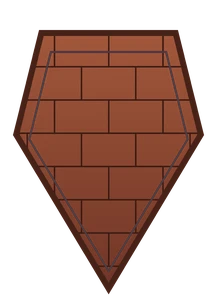
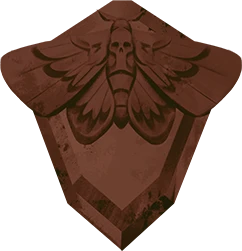
Obscurus badge for unranked players; real Initiate and Acolyte badges from the game files

diff --git a/src/pages/PlayerPage.tsx b/src/pages/PlayerPage.tsx
@@ -83,9 +83,9 @@ function ProfileHead({ core, matches, onRefresh }: { core: PlayerCore; matches: 
               </a>
             )}
           </div>
-          <div className="ph-rank" aria-label={r ? `Rank: ${r.label}` : 'Unranked'}>
-            {r ? <RankBadge rank={r.name} sub={r.sub} size="lg" /> : <span className="pl-unranked" aria-hidden="true">?</span>}
-            <b>{r ? r.label : 'Unranked'}</b>
+          <div className="ph-rank" aria-label={r ? `Rank: ${r.label}` : 'Unranked (Obscurus)'}>
+            {r ? <RankBadge rank={r.name} sub={r.sub} size="lg" /> : <RankBadge rank="Obscurus" size="lg" />}
+            <b>{r ? r.label : 'Obscurus'}</b>
           </div>
         </div>
       </div>
@@ -105,8 +105,8 @@ function RankCard({ core, matches }: { core: PlayerCore; matches: PlayerMatchLin
     <div className="panel pad pc-card ph-rankcard" style={r ? { ['--rc' as string]: RANK_COLOR[r.name as keyof typeof RANK_COLOR] } as React.CSSProperties : undefined}>
       <div className="pc-card-h"><h3>Rank</h3><h3>Record</h3></div>
       <div className="ph-rc">
-        {r ? <RankBadge rank={r.name} sub={r.sub} size="md" /> : <span className="pl-unranked" aria-hidden="true">?</span>}
-        <span className="ph-rc-n"><b>{r ? r.label : 'Unranked'}</b><small>{r?.fromHistory ? `Going into their last ranked game, ${timeAgo(r.fromHistory)}` : r?.streak && r.streak >= 3 ? `${r.streak} ranked wins in a row` : r ? 'Current rank' : 'No ranked rating yet'}</small></span>
+        {r ? <RankBadge rank={r.name} sub={r.sub} size="md" /> : <RankBadge rank="Obscurus" size="md" />}
+        <span className="ph-rc-n"><b>{r ? r.label : 'Obscurus'}</b><small>{r?.fromHistory ? `Going into their last ranked game, ${timeAgo(r.fromHistory)}` : r?.streak && r.streak >= 3 ? `${r.streak} ranked wins in a row` : r ? 'Current rank' : 'No ranked rating yet'}</small></span>
         {t && <span className="ph-rc-wl"><b><span className="w">{n0(t.wins)}</span>{' / '}<span className="l">{n0(t.matches - t.wins)}</span></b>{wr !== null && <small className={wr >= 50 ? 'good' : 'bad'}>{wr.toFixed(1)}%</small>}</span>}
       </div>
     </div>

diff --git a/src/data/ranks.ts b/src/data/ranks.ts
@@ -13,13 +13,12 @@ export const ROMAN = ['', 'I', 'II', 'III', 'IV', 'V', 'VI'] as const;
 
 /**
  * Badge art for a rank (the animal plaque from the Deadlock Wiki's Ranked Mode page).
- * Initiate, Acolyte and Obscurus are drawn stand-ins until the real files are added: see PLACEHOLDER_TIERS.
+ * Obscurus (unranked), Initiate and Acolyte come from the game's own files (ranked/badges/rankNN_lg).
  */
 export function rankBadge(rank: string): string | undefined {
   const t = TIER_NUMBER[rank as Rank | 'Obscurus'];
   return t === undefined ? undefined : u(t);
 }
-export const PLACEHOLDER_TIERS: readonly number[] = [0, 1, 3];
 
 /** What the wiki says each tier is made of (its badge material). */
 export const RANK_MATERIAL: Record<Rank | 'Obscurus', string> = {

diff --git a/DESIGN_NOTES.md b/DESIGN_NOTES.md
@@ -552,3 +552,10 @@ V found the live builds hard to take in: tall cream columns of small print with 
 - Matchup columns lose the star/Haze badge and the small subtitle ("Opponent's match win rate"); the section lede
   still explains what the numbers are. Titles are hero-specific: "Best picks vs Graves", "Worst picks vs Graves",
   "Best lane partners for Graves", "Worst lanes for Graves".
+
+## Round 62 — Obscurus badge, real Initiate and Acolyte badges (2026-11-01)
+
+- V supplied the Obscurus (unranked) badge; it is the game's own `ranked/badges/rank00_lg.png`, now `rank/rank0.webp`.
+  Unranked players show it in the player banner and rank card, labelled "Obscurus", instead of a dotted "?" circle.
+- The same folder had the real Initiate (moth) and Acolyte (rat) badges, so the drawn stand-ins for tiers 1 and 3 are
+  replaced too and `PLACEHOLDER_TIERS` is gone.
